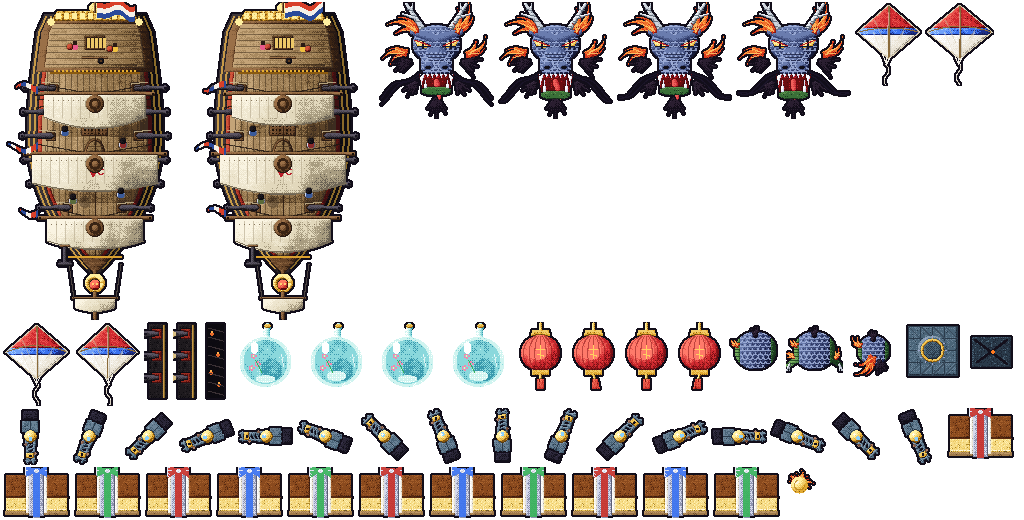
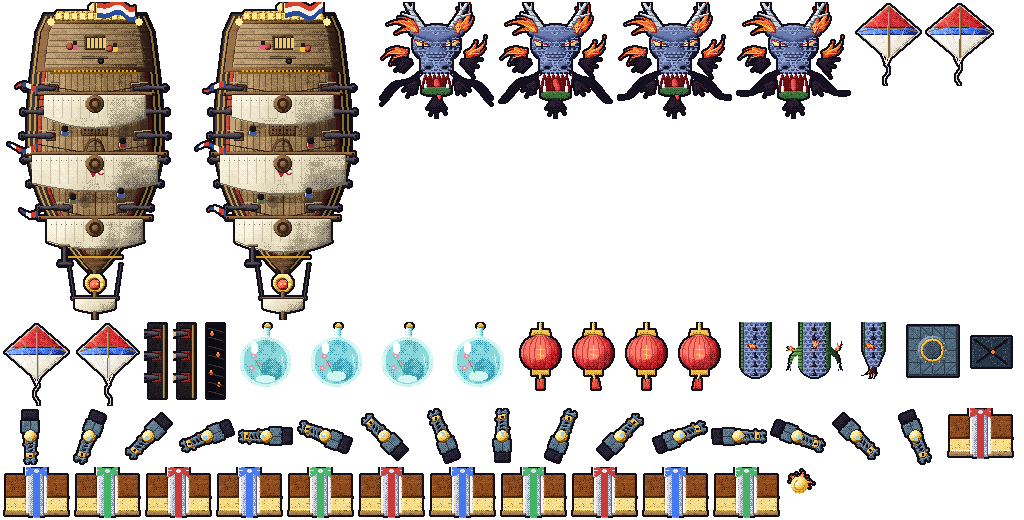
Nagasaki dragon: one continuous body, with each scale section rotated along the chain and drawn as a capsule with green belly flanks, a spiked ridge and a flame fin
Claude-Session: https://claude.ai/code/session_01MRa5UEHufJmpkQZTQUStvb

Changed region(s): [[0.6875, 0.6154, 0.875, 0.7385]]

diff --git a/src/game/enemies/nagasaki.js b/src/game/enemies/nagasaki.js
@@ -337,6 +337,9 @@ export const nagasaki = {
       const dy = -12 - i * 7 + (Math.sin(lag * 1.1) - Math.sin(g.ft * 1.1)) * 9;
       p.setPosition(e.x + dx * size, e.y + dy * size);
       p.setScale((1 - i * .035) * size * p.base).setAlpha(e.alpha);
+      // Each scale section points along the chain (local +y toward the tail) so the body reads as one coil.
+      const prev = i === 0 ? e : g.body[i - 1];
+      p.setRotation(Math.atan2(p.y - prev.y, p.x - prev.x) - Math.PI / 2);
     }
     if (g.pearl2) {
       // phase 3: the pearl split into two orbs circling the head
